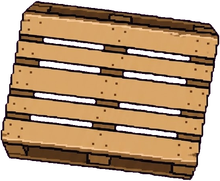
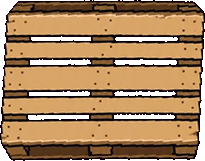
fix: bancale di Beppe e carrello di Matteo dritti e proporzionati, v=44
- bancale: immagine raddrizzata, niente rotazione, largo come quello in mano, parte dalle mani
  all'altezza delle spalle; colpisce con tutta la sua larghezza (anche l'avversario attaccato)
- carrello: fotogramma fisso (dritto), sempre sul pavimento anche se lanciato in salto,
  alto ~58% di un personaggio

Story: proiettili speciali

Claude-Session: https://claude.ai/code/session_01P1JT64VZ5V9vmBLWg7Znu1

diff --git a/index.html b/index.html
@@ -157,9 +157,9 @@ const TOR=[6,5,7],TLV=[2,3,5];
 /* sprite dei personaggi: 1 riga per animazione in assets/characters/<nome>/, corpo in piedi normalizzato a 400px, piedi sul bordo inferiore, rivolti a destra.
    n = frame per animazione; pj = proiettile dello speciale (pjn frame); spT = soglie (tick) dei frame dello speciale se diverse dallo standard.
    hit/win sono opzionali: se mancano si usa la posa idle (inclinata quando colpito). */
-const SPRB=400,VER=43,SPRSET={
-BEPPE:{d:'beppe',n:{idle:4,walk:4,punch:5,kick:5,heavy:5,jump:3,block:1,crouch:1,special:3,hit:1,fall:3,ko:1,win:2},pj:'pallet',pjn:1,pjw:46.9,pjh:44.3,pjo:[12.5,-23.8],spT:[6,11]},
-MATTEO:{d:'matteo',n:{idle:1,walk:2,punch:5,kick:5,heavy:5,jump:3,block:1,crouch:1,special:3,hit:1,fall:3,ko:1,win:3},pj:'matteo-cart',pjn:3,spT:[5,11]},
+const SPRB=400,VER=44,SPRSET={
+BEPPE:{d:'beppe',n:{idle:4,walk:4,punch:5,kick:5,heavy:5,jump:3,block:1,crouch:1,special:3,hit:1,fall:3,ko:1,win:2},pj:'pallet',pjn:1,pjw:50,pjh:39.3,pjo:[62,-84],spT:[6,11]},
+MATTEO:{d:'matteo',n:{idle:1,walk:2,punch:5,kick:5,heavy:5,jump:3,block:1,crouch:1,special:3,hit:1,fall:3,ko:1,win:3},pj:'matteo-cart',pjn:3,pjf:0,pjt:1,pjh:71.3,pjy:-40.8,spT:[5,11]},
 VLAD:{d:'vlad',sc:1.05,n:{idle:1,walk:2,punch:5,kick:5,heavy:5,jump:3,block:1,crouch:1,special:3,hit:1,fall:2,ko:1,win:2},pj:'vlad-spray',pjn:3,pjs:.6,pjo:[33.8,-83.5],pji:1,spT:[5,11]},
 /* LUIS: pose da tools/build_character.py (fogli pose), speciale e onda da tools/build_luis_special.py */
 LUIS:{d:'luis',sc:1.05,n:{idle:1,walk:2,punch:5,kick:5,heavy:5,jump:3,block:1,crouch:1,special:3,hit:1,fall:2,ko:1,win:2},pj:'luis-wave',pjn:3,pjs:.6,pjo:[26.4,-63.4],pjg:1,spT:[5,11]},
@@ -177,6 +177,8 @@ ANGEL:{d:'angel',n:{idle:1,walk:2,punch:5,kick:5,heavy:5,jump:3,block:1,crouch:1
 PAULUX:{d:'paulux',sc:.795,fk:.9375,n:{idle:1,walk:2,punch:5,kick:5,heavy:5,jump:3,block:1,crouch:1,special:4,hit:1,fall:2,ko:1,win:2},ml:62,dash:5,spT:[4,9,14]}};
 /* proiettile a più frame: pjh altezza e pjy bordo superiore (rispetto alla linea del proiettile), pji = il 1o frame è solo l'avvio;
    pjg = l'effetto cresce frame dopo frame e resta sull'ultimo (onda di LUIS);
+   pjf = fotogramma fisso (carrello di MATTEO dritto, senza ruotare); pjt = corre sempre sul pavimento, anche se lanciato in salto;
+   carrello: alto ~58% di un personaggio (come uno vero), pjy porta le ruote sul pavimento;
    sc = scala del personaggio (es. Vlad un po' più alto); pjo = [avanti, altezza] del punto di uscita rispetto ai piedi (es. ugello dello spruzzino), pjs = scala rispetto agli sprite:
    in quel caso il bordo sinistro del frame (la punta del getto) parte esattamente dal punto di uscita */
 /* caricamento a due fasi: prima quello che serve alla schermata iniziale (prima arena e i due lottatori
@@ -280,7 +282,7 @@ else if(f.st=='atk'){const m=MV[f.atk],t=f.t;f.ext=t<m.su?t/m.su:t<m.su+m.ac?1:M
 if(f.atk=='s'&&(SPRSET[f.L.n]||{}).ml){/* speciale corpo a corpo (es. taglierino di ZANI): nessun proiettile, colpo nella fase attiva */
  const sm=SPRSET[f.L.n];if(sm.dash&&t>=4&&t<m.su+m.ac)f.vx=f.face*sm.dash;if(sm.hop&&t==4&&f.y>=0)f.vy=-sm.hop;/* volo in picchiata (ANGEL) */
  if(t==m.su)sfx('sp');if(t>=m.su&&t<m.su+m.ac&&!f.did)hitchk(f,o,{r:SPRSET[f.L.n].ml,d:18,st:24,kb:6})}
-else if(f.atk=='s'){if(t==m.su){const ps0=SPRSET[f.L.n]||{},po=ps0.pjo,bs=(f.L.big?1.12:1)*(ps0.sc||1);PJ.push({x:f.x+f.face*(po?po[0]*bs:22)-f.face*3.6,y:(po?po[1]*bs:-30)+f.y,fy:f.y,vx:f.face*3.6,o:f,a:f.atk,t:-1});/* nasce fermo sul punto di uscita: si muove e ruota dal fotogramma dopo */sfx('sp')}}
+else if(f.atk=='s'){if(t==m.su){const ps0=SPRSET[f.L.n]||{},po=ps0.pjo,bs=(f.L.big?1.12:1)*(ps0.sc||1);PJ.push({x:f.x+f.face*(po?po[0]*bs:22)-f.face*3.6,y:(po?po[1]*bs:-30)+(ps0.pjt?0:f.y),fy:ps0.pjt?0:f.y,vx:f.face*3.6,o:f,a:f.atk,t:-1});/* nasce fermo sul punto di uscita (BEPPE: davanti alle mani, all'altezza delle spalle) e vola dritto */sfx('sp')}}
 else if(t>=m.su&&t<m.su+m.ac&&!f.did)hitchk(f,o,m);
 if(t>=m.su+m.ac+m.re){f.st='idle';f.atk=null;f.ext=0}}
 else{f.ext=0;f.blk=gr&&i.b;f.cr=gr&&i.d&&!i.b;if(gr)f.face=o.x>f.x?1:-1;
@@ -315,7 +317,8 @@ if(a.x<XMIN){b.x+=XMIN-a.x;a.x=XMIN}if(a.x>XMAX){b.x-=a.x-XMAX;a.x=XMAX}if(b.x<X
 /* i due lottatori restano sempre insieme nell'inquadratura: distanza massima = larghezza visibile meno un margine */
 {const ms=352/ZP-50,d=a.x-b.x;if(Math.abs(d)>ms){const e=(Math.abs(d)-ms)/2*Math.sign(d);a.x-=e;b.x+=e}}
 for(let i=PJ.length-1;i>=0;i--){const p=PJ[i],o=p.o==a?b:a;p.x+=p.vx;p.t++;
-if(Math.abs(p.x-o.x)<12&&Math.abs(o.y-(p.fy||0))<45&&G.ph=='play'){/* da terra: come prima (avversario non troppo in alto); in salto: colpisce chi e' alla stessa altezza */dmg(p.o,o,18*p.o.L.pw,{st:24,kb:6});PJ.splice(i,1)}else if(p.x<ARL-20||p.x>ARR+20)PJ.splice(i,1)}
+const av=(o.x-p.x)*Math.sign(p.vx),hw=((SPRSET[p.o.L.n]||{}).pjw||0)/2;/* hw: un proiettile largo (bancale) colpisce con tutta la sua larghezza */
+if(av<12&&av>-12-hw&&Math.abs(o.y-(p.fy||0))<45&&G.ph=='play'){/* da terra: come prima (avversario non troppo in alto); in salto: colpisce chi e' alla stessa altezza */dmg(p.o,o,18*p.o.L.pw,{st:24,kb:6});PJ.splice(i,1)}else if(p.x<ARL-20||p.x>ARR+20)PJ.splice(i,1)}
 for(let i=PS.length-1;i>=0;i--){const p=PS[i];p.x+=p.vx;p.y+=p.vy;p.vy+=.2;if(--p.l<=0)PS.splice(i,1)}
 for(const f of[a,b])f.tr+=(f.hp-f.tr)*.06;
 if(G.ph=='ko'&&--G.pt<=0){const w=G.w;if(w.wins>=2)endMatch(w==a);else{G.rd++;newRound()}}
@@ -455,8 +458,8 @@ const order=a.y<b.y?[b,a]:[a,b];litLayer(()=>{for(const f of order)draw(f,f.x,FY
 fogPass();dustPass(true);
 for(const p of PJ){const x=p.x,y=FY+(p.y==null?-30:p.y),d=p.vx>0?1:-1;c.save();c.translate(x,y);c.scale(d,1);c.imageSmoothingEnabled=false;
 const ps=SPRSET[p.o.L.n]||{},PI=ps.pi;
-if(PI&&PI.complete&&PI.naturalWidth){if(ps.pjn>1){const n=ps.pjn,fw=PI.width/n,ph=ps.pjh||48,fi=ps.pjg?Math.min(n-1,Math.max(0,p.t)/6|0):ps.pji?(p.t<5?0:1+((p.t/8|0)%(n-1))):(p.t/6|0)%n,k2=ph/PI.height;if(ps.pjs){const k3=SPRK*ps.pjs*(ps.sc||1);c.drawImage(PI,fi*fw,0,fw,PI.height,-2*k3,-PI.height*k3/2,fw*k3,PI.height*k3)}else c.drawImage(PI,fi*fw,0,fw,PI.height,-fw*k2/2,ps.pjy||-18,fw*k2,ph)}
-else{c.rotate(Math.max(0,p.t)*.2);const ph=ps.pjh||30,pw=ps.pjw||PI.width*ph/PI.height;c.drawImage(PI,-pw/2,-ph/2,pw,ph)}}
+if(PI&&PI.complete&&PI.naturalWidth){if(ps.pjn>1){const n=ps.pjn,fw=PI.width/n,ph=ps.pjh||48,fi=ps.pjf!=null?ps.pjf:ps.pjg?Math.min(n-1,Math.max(0,p.t)/6|0):ps.pji?(p.t<5?0:1+((p.t/8|0)%(n-1))):(p.t/6|0)%n,k2=ph/PI.height;if(ps.pjs){const k3=SPRK*ps.pjs*(ps.sc||1);c.drawImage(PI,fi*fw,0,fw,PI.height,-2*k3,-PI.height*k3/2,fw*k3,PI.height*k3)}else c.drawImage(PI,fi*fw,0,fw,PI.height,-fw*k2/2,ps.pjy||-18,fw*k2,ph)}
+else{/* bancale di BEPPE: dritto, senza ruotare, largo come quello che tiene in mano */const ph=ps.pjh||30,pw=ps.pjw||PI.width*ph/PI.height;c.drawImage(PI,-pw/2,-ph/2,pw,ph)}}
 c.restore()}
 for(const p of PS){c.fillStyle=p.col;c.fillRect(p.x,FY+p.y,3,3)}
 c.setTransform(2,0,0,2,0,0);
